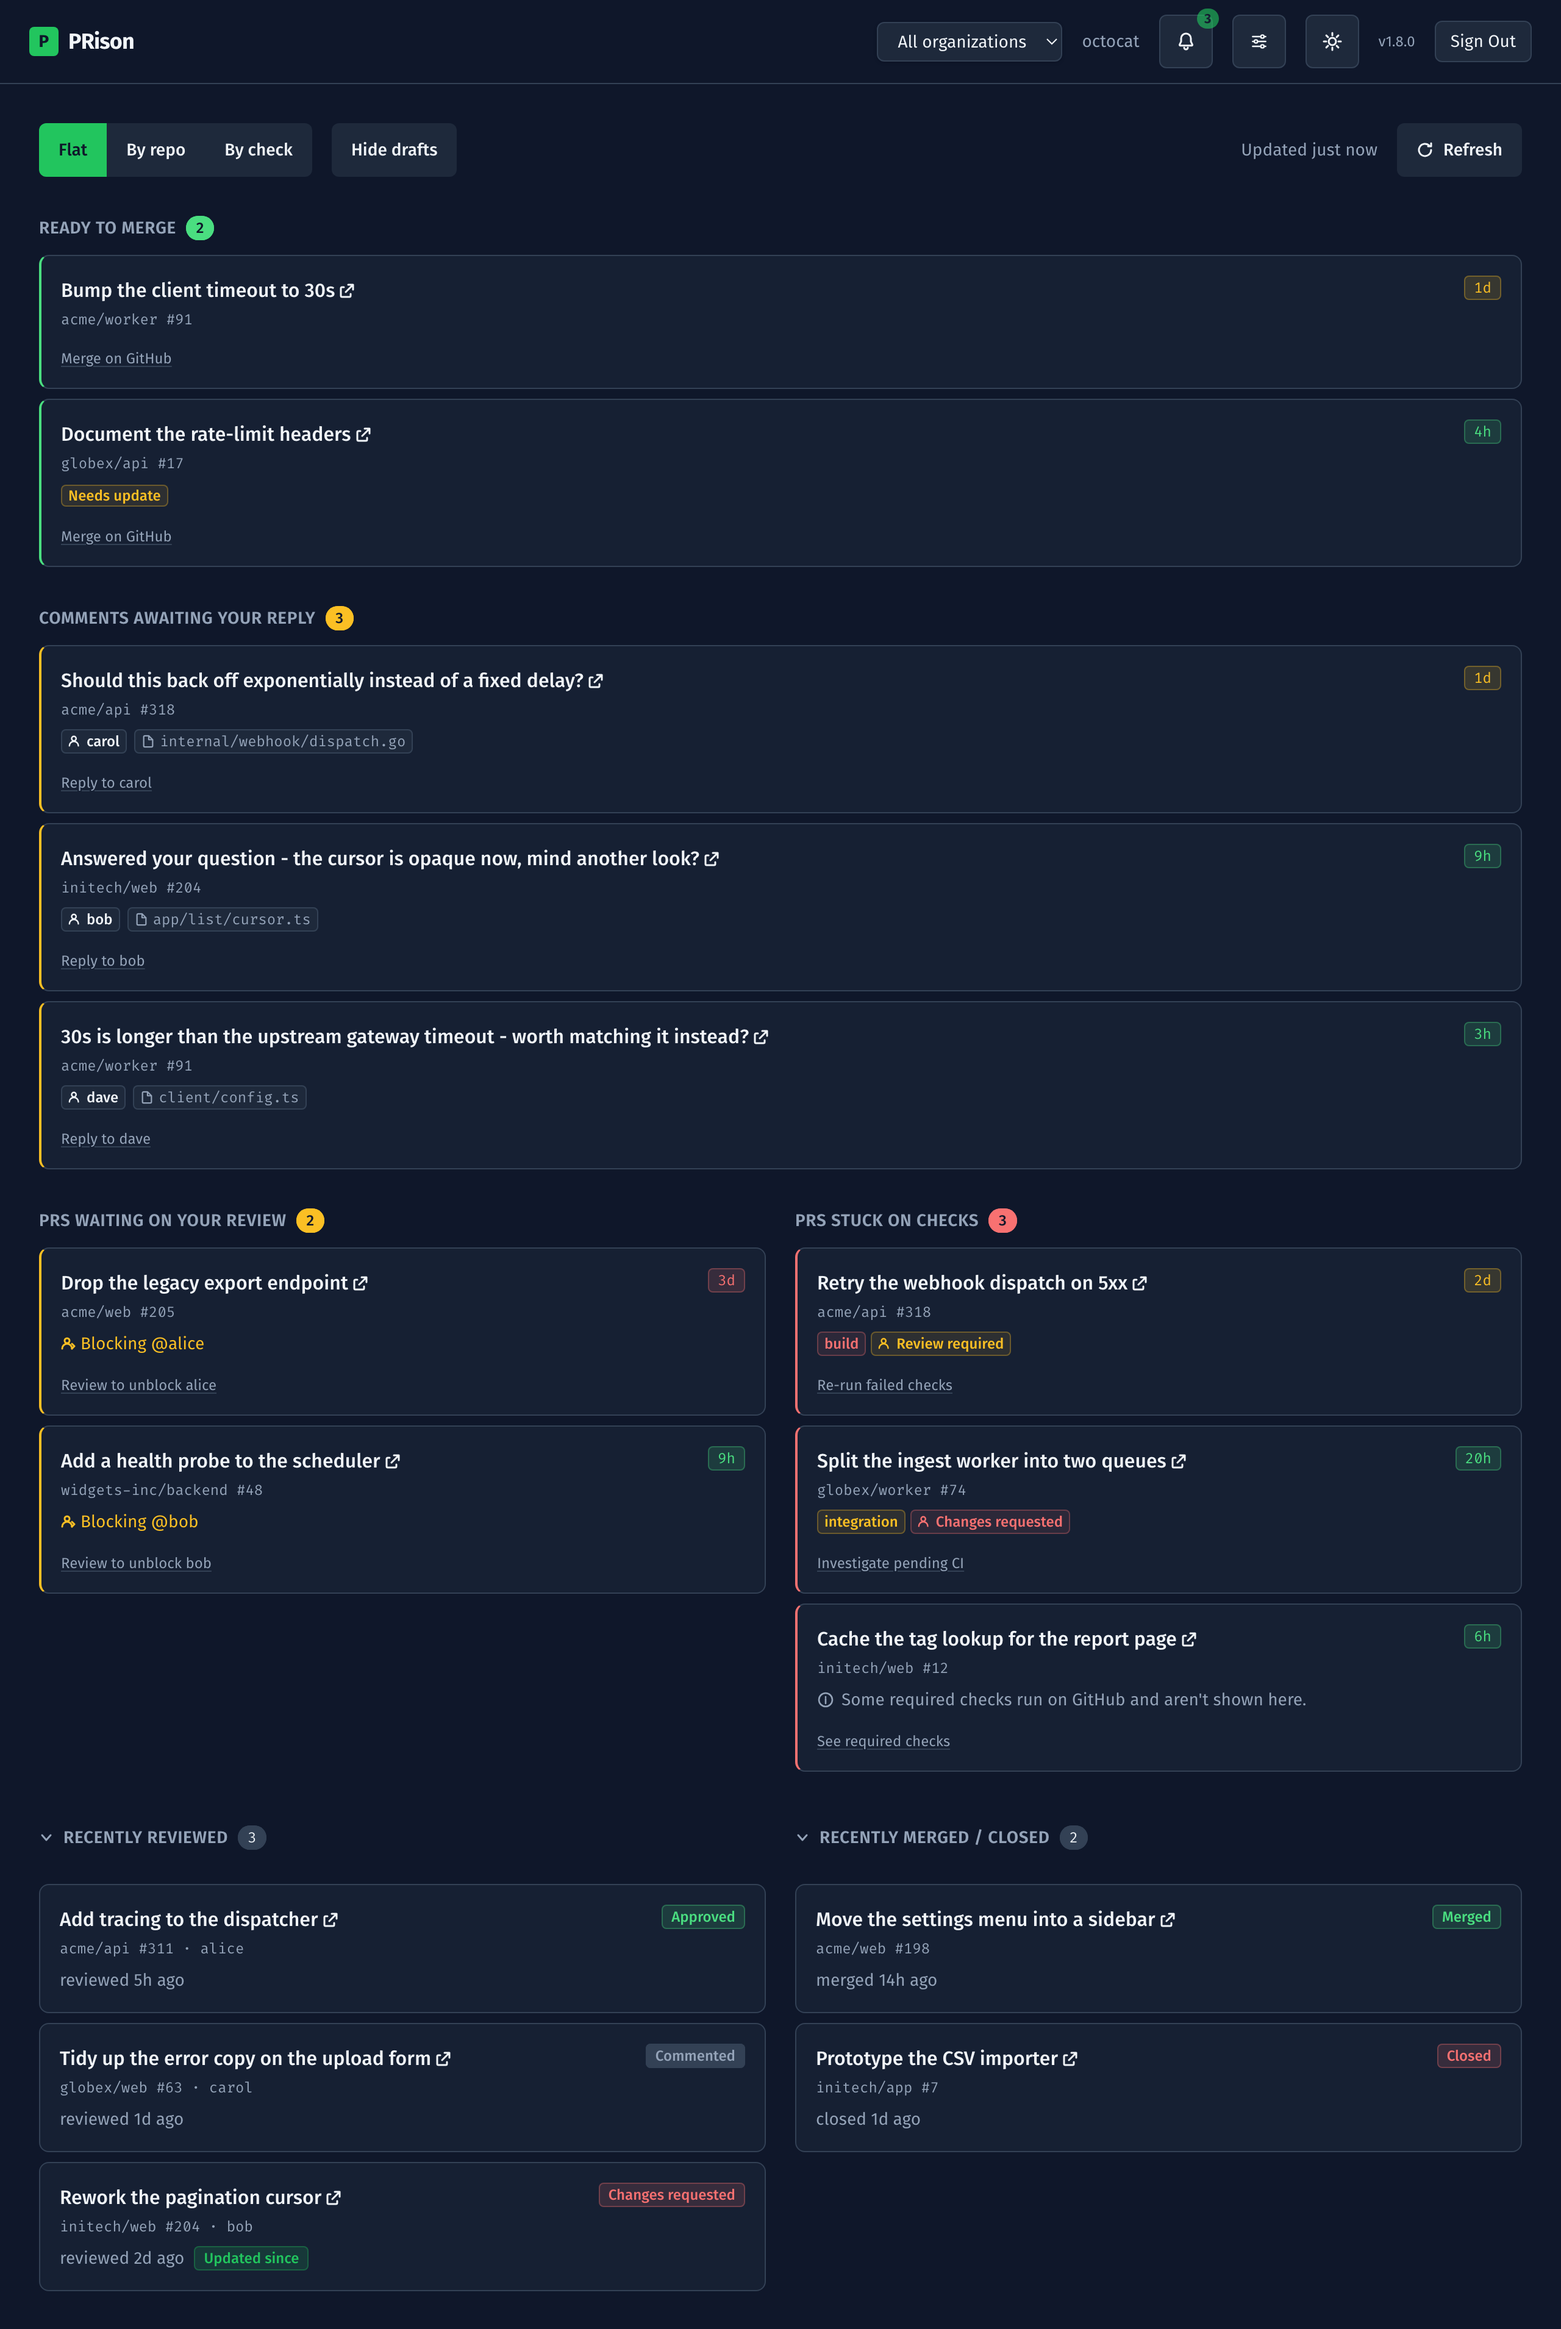
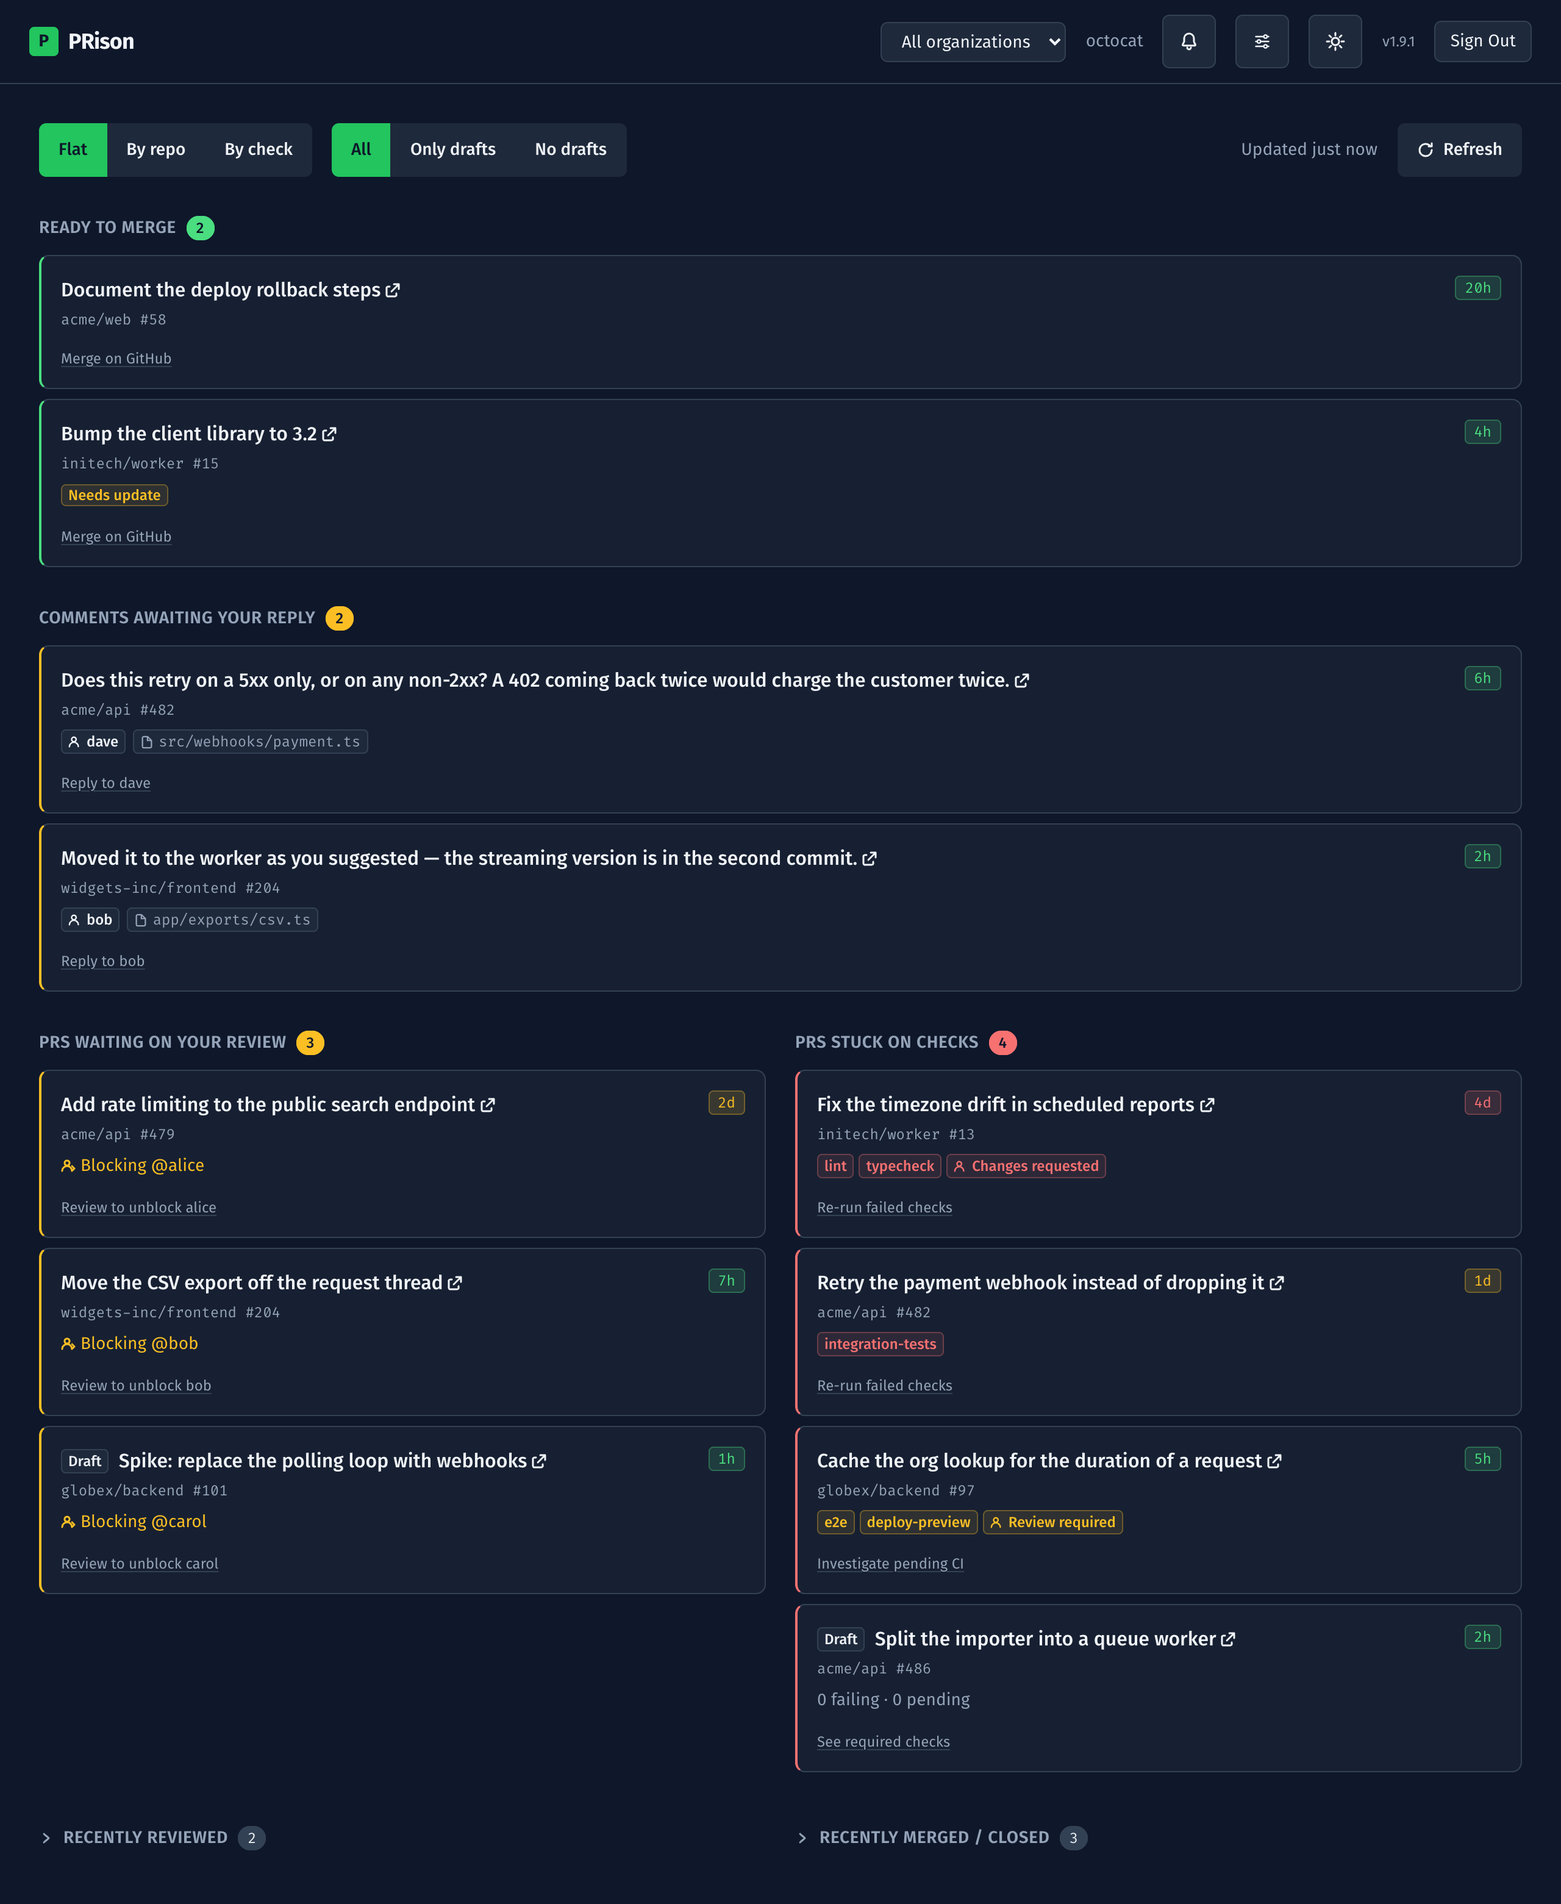
docs: regenerate the screenshot from a headless capture script
The old procedure was a browser extension driven by hand: sign in, paste a
fetch patch into the console, click Refresh, flip to dark mode, take the shot.
That is a lot of steps to get wrong on a file that must never contain a real
repository name, and the extension is not always there to drive.

capture.mjs does it in one command. Headless Chrome over the DevTools
Protocol, which needs no dependency at all — Node has had a global WebSocket
since 22, and CDP is a WebSocket.

Two properties are the point rather than the convenience:

- The session cookie carries a deliberately invalid token, minted with the
  app's own encryptToken so it decrypts. The shell renders, the org query
  fails, and the switcher stays empty — a real token would put real
  organizations into a file published in a public repository.
- The board is patched in before the first paint, so no list ever reaches
  GitHub and there is no window in which real data is on screen.

The dev overlay is hidden in the same pre-paint script; it was sitting on top
of a card in the previous image.

Claude-Session: https://claude.ai/code/session_01HN7SaQVaRMK7Jc7rTrEoxc

diff --git a/.claude/skills/refresh-screenshot/SKILL.md b/.claude/skills/refresh-screenshot/SKILL.md
@@ -1,25 +1,31 @@
 ---
 name: refresh-screenshot
-description: Regenerate docs/screenshot.png from synthetic data. Use when the dashboard UI changed and the README screenshot no longer shows it — a new filter, a new section, a restyled card. Drives the local dev server and Chrome; never captures real GitHub data.
+description: Regenerate docs/screenshot.png from synthetic data. Use when the dashboard UI changed and the README screenshot no longer shows it — a new filter, a new section, a restyled card. Drives headless Chrome from a script; never captures real GitHub data.
 ---
 
 # Refreshing docs/screenshot.png
 
-The README screenshot goes stale every time the dashboard gains a control. This
-is how to redo it without putting a single real repository, organization, or
-person into a public repo.
+The README screenshot goes stale every time the dashboard gains a control. Two
+files do the whole job:
+
+- `scripts/screenshot/demo-board.mjs` — the synthetic board, one array per list.
+- `scripts/screenshot/capture.mjs` — headless Chrome over the DevTools Protocol.
 
 ## The rule this exists for
 
-PRison is public. Anything visible in `docs/screenshot.png` is published. The
-board in the screenshot must therefore come from `scripts/screenshot/demo-board.mjs`,
-which is built from the same allowlisted names (`acme`, `globex`, `initech`,
-`widgets-inc`, `alice`, `bob`, `carol`, `dave`, `octocat`) that
-`lib/generic-fixtures.ts` enforces everywhere else in the repo.
+PRison is public. Anything visible in `docs/screenshot.png` is published, so the
+board must come from `demo-board.mjs`, which is built from the same allowlisted
+names (`acme`, `globex`, `initech`, `widgets-inc`, `alice`, `bob`, `carol`,
+`dave`, `octocat`) that `lib/generic-fixtures.ts` enforces everywhere else.
 
 **Never screenshot a signed-in board showing real data**, not even to "check the
 layout" — a real PR title in a discarded screenshot is still a real PR title
 that reached the disk of a public checkout.
+
+The capture script is built so that cannot happen by accident: it mints its own
+session cookie carrying a **deliberately invalid token**, so the shell renders
+and the org query returns nothing, and it patches `window.fetch` before the
+first paint so no list ever reaches GitHub.
 
 ## Steps
 
@@ -29,63 +35,36 @@ that reached the disk of a public checkout.
 npm run dev
 ```
 
-Leave it running in the background. It listens on `http://localhost:3000` unless
-that port is taken — read the actual URL out of its output.
+`docs/screenshot.png` is not reachable from a production build without a real
+token, which is the thing this must not use. Note the port it actually picked:
+if the Docker container is on `:3000` — and it holds **real** data — `next dev`
+falls back to `:3001` and you must point the capture at that one.
 
-Note this is separate from the Docker container that may also be on `:3000`. If
-the container is running, either stop it or let `next dev` pick another port and
-use that one.
-
-### 2. Open it in Chrome and sign in
-
-Use the Chrome tools (`tabs_create_mcp`, then `navigate`). Sign in normally —
-the dev server needs a working token to render the page shell at all.
-
-The signed-in shell shows your own login in the header and your organizations in
-the org `<select>`. That select is **closed** and reads "All organizations" in
-its default state, so the real names sit in unopened `<option>` elements and
-never reach the image. Leave it closed. Your login does appear; that is fine
-when it is an allowlisted name, and if it is not, sign in with an account whose
-name is.
-
-### 3. Replace the board with the synthetic one
+### 2. Capture
 
 ```bash
-node scripts/screenshot/demo-board.mjs
+node scripts/screenshot/capture.mjs                        # localhost:3000
+PRISON_URL=http://localhost:3001 node scripts/screenshot/capture.mjs
 ```
 
-That prints a self-contained snippet. Run it in the page with `javascript_tool`.
-It patches `window.fetch` so every `/api/*` list answers from the demo board and
-leaves every other request alone. It returns the list of routes it patched —
-check that string before continuing; an empty or partial list means the snippet
-did not take.
+It writes `docs/screenshot.png` directly, at 1280 CSS px and 2x, dark theme,
+full page. Nothing to click, no browser to drive. Chrome runs headless on a
+throwaway profile, so your own browser is untouched; set `CHROME_PATH` if Chrome
+is not at the default macOS location.
 
-Then click **Refresh** in the filter bar. All six lists refetch and land on the
-synthetic board. Confirm by eye that the titles are the demo ones
-(`Retry the payment webhook instead of dropping it`, …) before capturing.
+Give it a minute. Chrome's first headless start on a managed machine can take
+well over the usual couple of seconds.
 
-The demo board's ages are relative to when you ran the command, so the badges
-read `2h` / `3d` rather than a frozen date.
+If it fails with "the dashboard did not render", the dev server is not up at the
+URL you passed. If it fails on `AUTH_SECRET`, run `npm run dev` once so
+`.env.local` gets written.
 
-### 4. Set up the shot
-
-- **Dark mode** — the existing screenshot is dark; use the sun/moon toggle.
-- **Window size** — wide enough that the two-column layout is in its desktop
-  form, around 1600×1000. `resize_window` does this.
-- Make sure the control the screenshot exists to show is **visible and in a
-  state that demonstrates it**. If the change is a new filter, leave it on its
-  default rather than an exotic setting, unless the exotic one is the point.
-- Scroll so the filter bar and the four work-queue lists are all in frame.
-
-### 5. Capture and replace
-
-Screenshot with the Chrome tools, then write the image to `docs/screenshot.png`,
-replacing the old one. Keep the filename — the README links to it by path.
-
-### 6. Check before committing
+### 3. Check before committing
 
 - Open the PNG and **read every string in it**. Any repository, org, person, or
-  PR title that is not from the demo board is a leak; go back to step 3.
+  PR title that is not from the demo board is a leak.
+- Make sure the control the screenshot exists to show is visible and in a state
+  that demonstrates it — default state unless the exotic one is the point.
 - If the composition changed enough that the README's alt text no longer
   describes it, update the alt text too.
 - `npx vitest run lib/generic-fixtures.test.ts` — the guard scans committed
@@ -97,10 +76,24 @@ replacing the old one. Keep the filename — the README links to it by path.
 Edit `scripts/screenshot/demo-board.mjs`. It is plain data in the shapes
 `lib/types.ts` defines, one array per list, and the only rules are:
 
-- Names come from the allowlist above. If you need a new one, add it to the
-  allowlist in `lib/generic-fixtures.ts` first, and pick something that is
-  obviously fictional.
+- Names come from the allowlist above — **both halves** of `org/repo`, which is
+  the one that trips people up. If you need a new one, add it to the allowlist
+  in `lib/generic-fixtures.ts` first, and pick something obviously fictional.
 - Keep at least one draft in the lists that can hold one, so the draft filter
   has something to act on.
 - Keep the mix that makes the board legible: something failing, something
   pending, something approved and waiting, something merged.
+
+Ages are written as `ago(hours)` and resolve at run time, so the badges read
+`2h` / `3d` instead of freezing at the date the file was written.
+
+## Changing the shot itself
+
+`capture.mjs` is a small CDP client — `send(method, params)` returns the result.
+The knobs worth knowing:
+
+- `WIDTH` / `SCALE` at the top.
+- The `Page.addScriptToEvaluateOnNewDocument` source seeds `localStorage`
+  (theme, draft filter), installs the fetch patch, and hides the `nextjs-portal`
+  dev overlay. Anything that must be true before the first paint goes there.
+- The 3 s settle before capture covers React's commit and the age badges.

diff --git a/README.md b/README.md
@@ -30,7 +30,7 @@ access. Four lists, oldest first, plus two history sections:
 Both history sections sit side by side, collapsed by default with a count, and
 expand to the latest 15 with **Load more** for the rest.
 
-![The PRison dashboard in dark mode, showing the four PR lists, the header's activity bell carrying three unseen events, and the recently reviewed and recently merged / closed histories expanded side by side](docs/screenshot.png)
+![The PRison dashboard in dark mode, showing the filter bar's grouping and draft filters above the four PR lists — ready to merge, comments awaiting your reply, PRs waiting on your review, and PRs stuck on checks — with the recently reviewed and recently merged / closed histories collapsed at the bottom](docs/screenshot.png)
 
 ### Features
 
